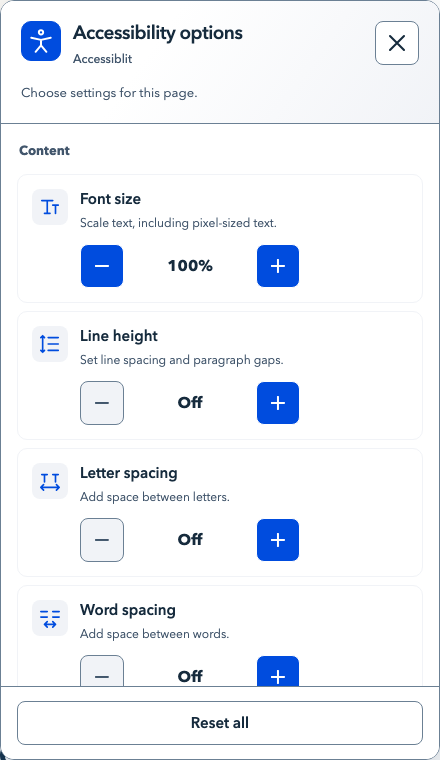
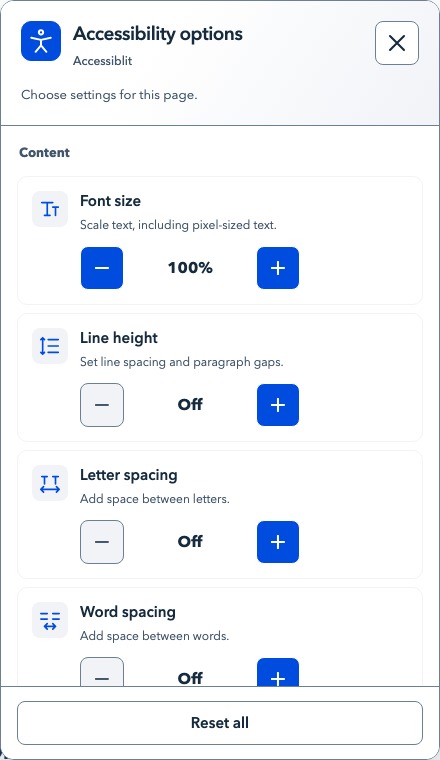
fix(panel): prevent enlarged Firefox title ink from clipping
Review finding W-6: give the title enough line height for native font metrics and refresh its real product preview. All clipping and focus assertions stay unchanged.

diff --git a/src/ui/styles.ts b/src/ui/styles.ts
@@ -30,7 +30,7 @@ export const UI_CSS = `
 .accessiblit-header { flex:none; display:grid; grid-template-columns:40px 1fr 44px; gap:4px 12px; padding:20px; color:var(--ui-ink); background:var(--ui-bg); background-image:linear-gradient(125deg,var(--ui-bg) 35%,var(--ui-quiet)); border-block-end:1px solid var(--ui-border); }
 .accessiblit-emblem { grid-column:1; grid-row:1/3; display:flex; align-items:center; justify-content:center; inline-size:40px; block-size:40px; border:1px solid var(--ui-accent); border-radius:10px; color:var(--ui-accent-ink); background:var(--ui-accent); }
 .accessiblit-emblem svg { inline-size:26px; block-size:26px; }
-.accessiblit-header h2 { grid-column:2; grid-row:1; margin:0; align-self:end; min-inline-size:0; font-size:19px; line-height:1.3; font-weight:600; text-wrap:balance; letter-spacing:-.025em; }
+.accessiblit-header h2 { grid-column:2; grid-row:1; margin:0; align-self:end; min-inline-size:0; font-size:19px; line-height:1.4; font-weight:600; text-wrap:balance; letter-spacing:-.025em; }
 .accessiblit-brand { grid-column:2; grid-row:2; color:var(--ui-muted); font-size:12px; font-weight:500; }
 .accessiblit-surface .accessiblit-close { grid-column:3; grid-row:1/3; display:flex; align-items:center; justify-content:center; min-inline-size:44px; inline-size:44px; block-size:44px; padding:0; border:1px solid var(--ui-border); border-radius:8px; color:var(--ui-ink); background:var(--ui-bg); }
 .accessiblit-intro { grid-column:1/-1; margin:12px 0 0; color:var(--ui-muted); font-size:13px; line-height:1.5; }
